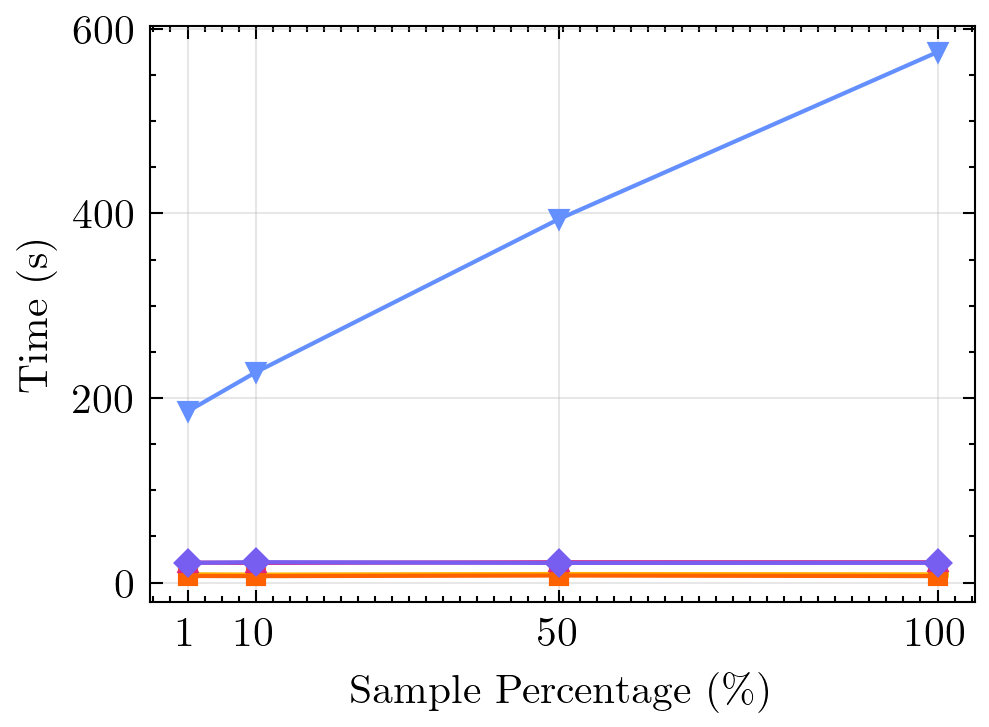
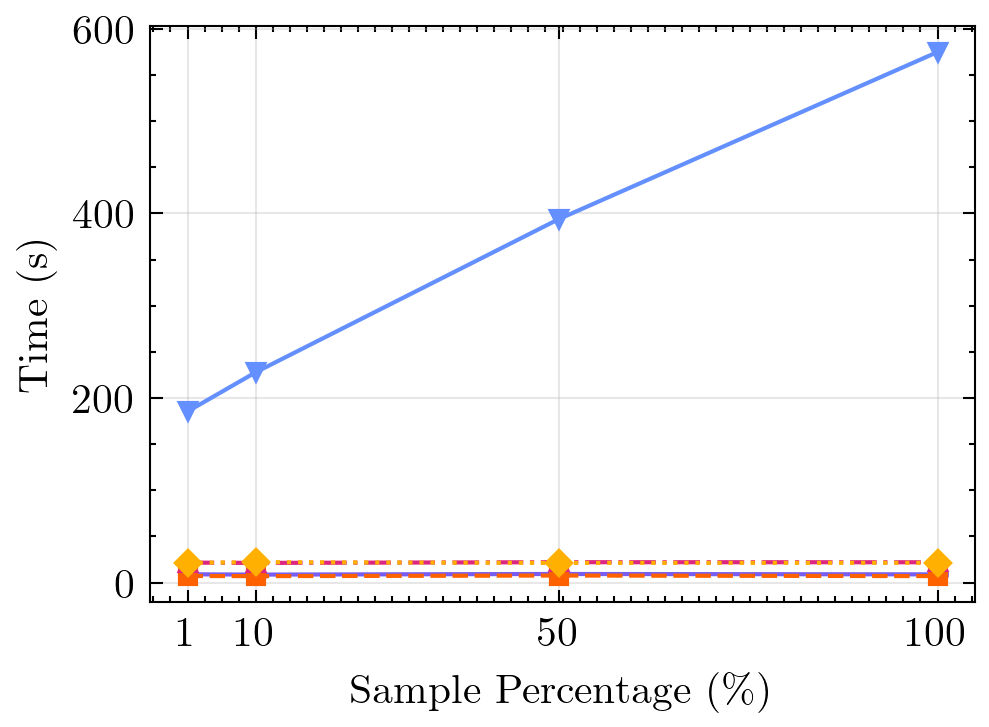
Use different line style (overlapping lines)

Changed region(s): [[0.182, 0.7565, 0.9707, 0.8171]]

diff --git a/src/plot_queries_scaling.py b/src/plot_queries_scaling.py
@@ -3,9 +3,10 @@ import pandas as pd
 import scienceplots
 
 plt.style.use('science')
-plt.rcParams['axes.prop_cycle'] = plt.cycler(color=['#ffb000', '#fe6100', '#dc267f', '#785ef0', '#648fff'])
+plt.rcParams['axes.prop_cycle'] = plt.cycler(color=['#785ef0', '#fe6100', '#dc267f', '#ffb000', '#648fff'])
 
 markers = ['o', 's', '^', 'D', 'v', 'P', 'X']
+linestyles = ['-', '--', '-.', ':', '-', '--', '-.']
 
 queries = ['query1', 'query2', 'query3', 'query4', 'query5', 'query6', 'query7']
 
@@ -26,7 +27,7 @@ for query in queries:
         for i, solution in enumerate(solutions):
             solution_data = df[(df['solution'] == solution) & (df['cache'] == 'cold')]
             cold_means = solution_data.groupby('sample_percentage')['timing'].mean()
-            ax1.plot(cold_means.index, cold_means.values, marker=markers[i % len(markers)], markersize=4, label=solution)
+            ax1.plot(cold_means.index, cold_means.values, marker=markers[i % len(markers)], linestyle=linestyles[i % len(linestyles)], markersize=4, label=solution)
 
         ax1.set_xlabel('Sample Percentage (\%)')
         ax1.set_ylabel('Time (s)')
@@ -45,7 +46,7 @@ for query in queries:
         for i, solution in enumerate(solutions):
             solution_data = df[(df['solution'] == solution) & (df['cache'] == 'warm')]
             warm_means = solution_data.groupby('sample_percentage')['timing'].mean()
-            ax2.plot(warm_means.index, warm_means.values, marker=markers[i % len(markers)], markersize=4, label=solution)
+            ax2.plot(warm_means.index, warm_means.values, marker=markers[i % len(markers)], linestyle=linestyles[i % len(linestyles)], markersize=4, label=solution)
 
         ax2.set_xlabel('Sample Percentage (\%)')
         ax2.set_ylabel('Time (s)')
@@ -61,7 +62,7 @@ for query in queries:
 # Standalone legend
 fig_leg, ax_leg = plt.subplots()
 for i, solution in enumerate(solutions):
-    ax_leg.plot([], [], marker=markers[i % len(markers)], markersize=4, label=solution)
+    ax_leg.plot([], [], marker=markers[i % len(markers)], linestyle=linestyles[i % len(linestyles)], markersize=4, label=solution)
 legend = ax_leg.legend(ncol=1, loc='center', fontsize=7, frameon=True)
 ax_leg.set_axis_off()
 fig_leg.set_size_inches(legend.get_window_extent().width / fig_leg.dpi,
